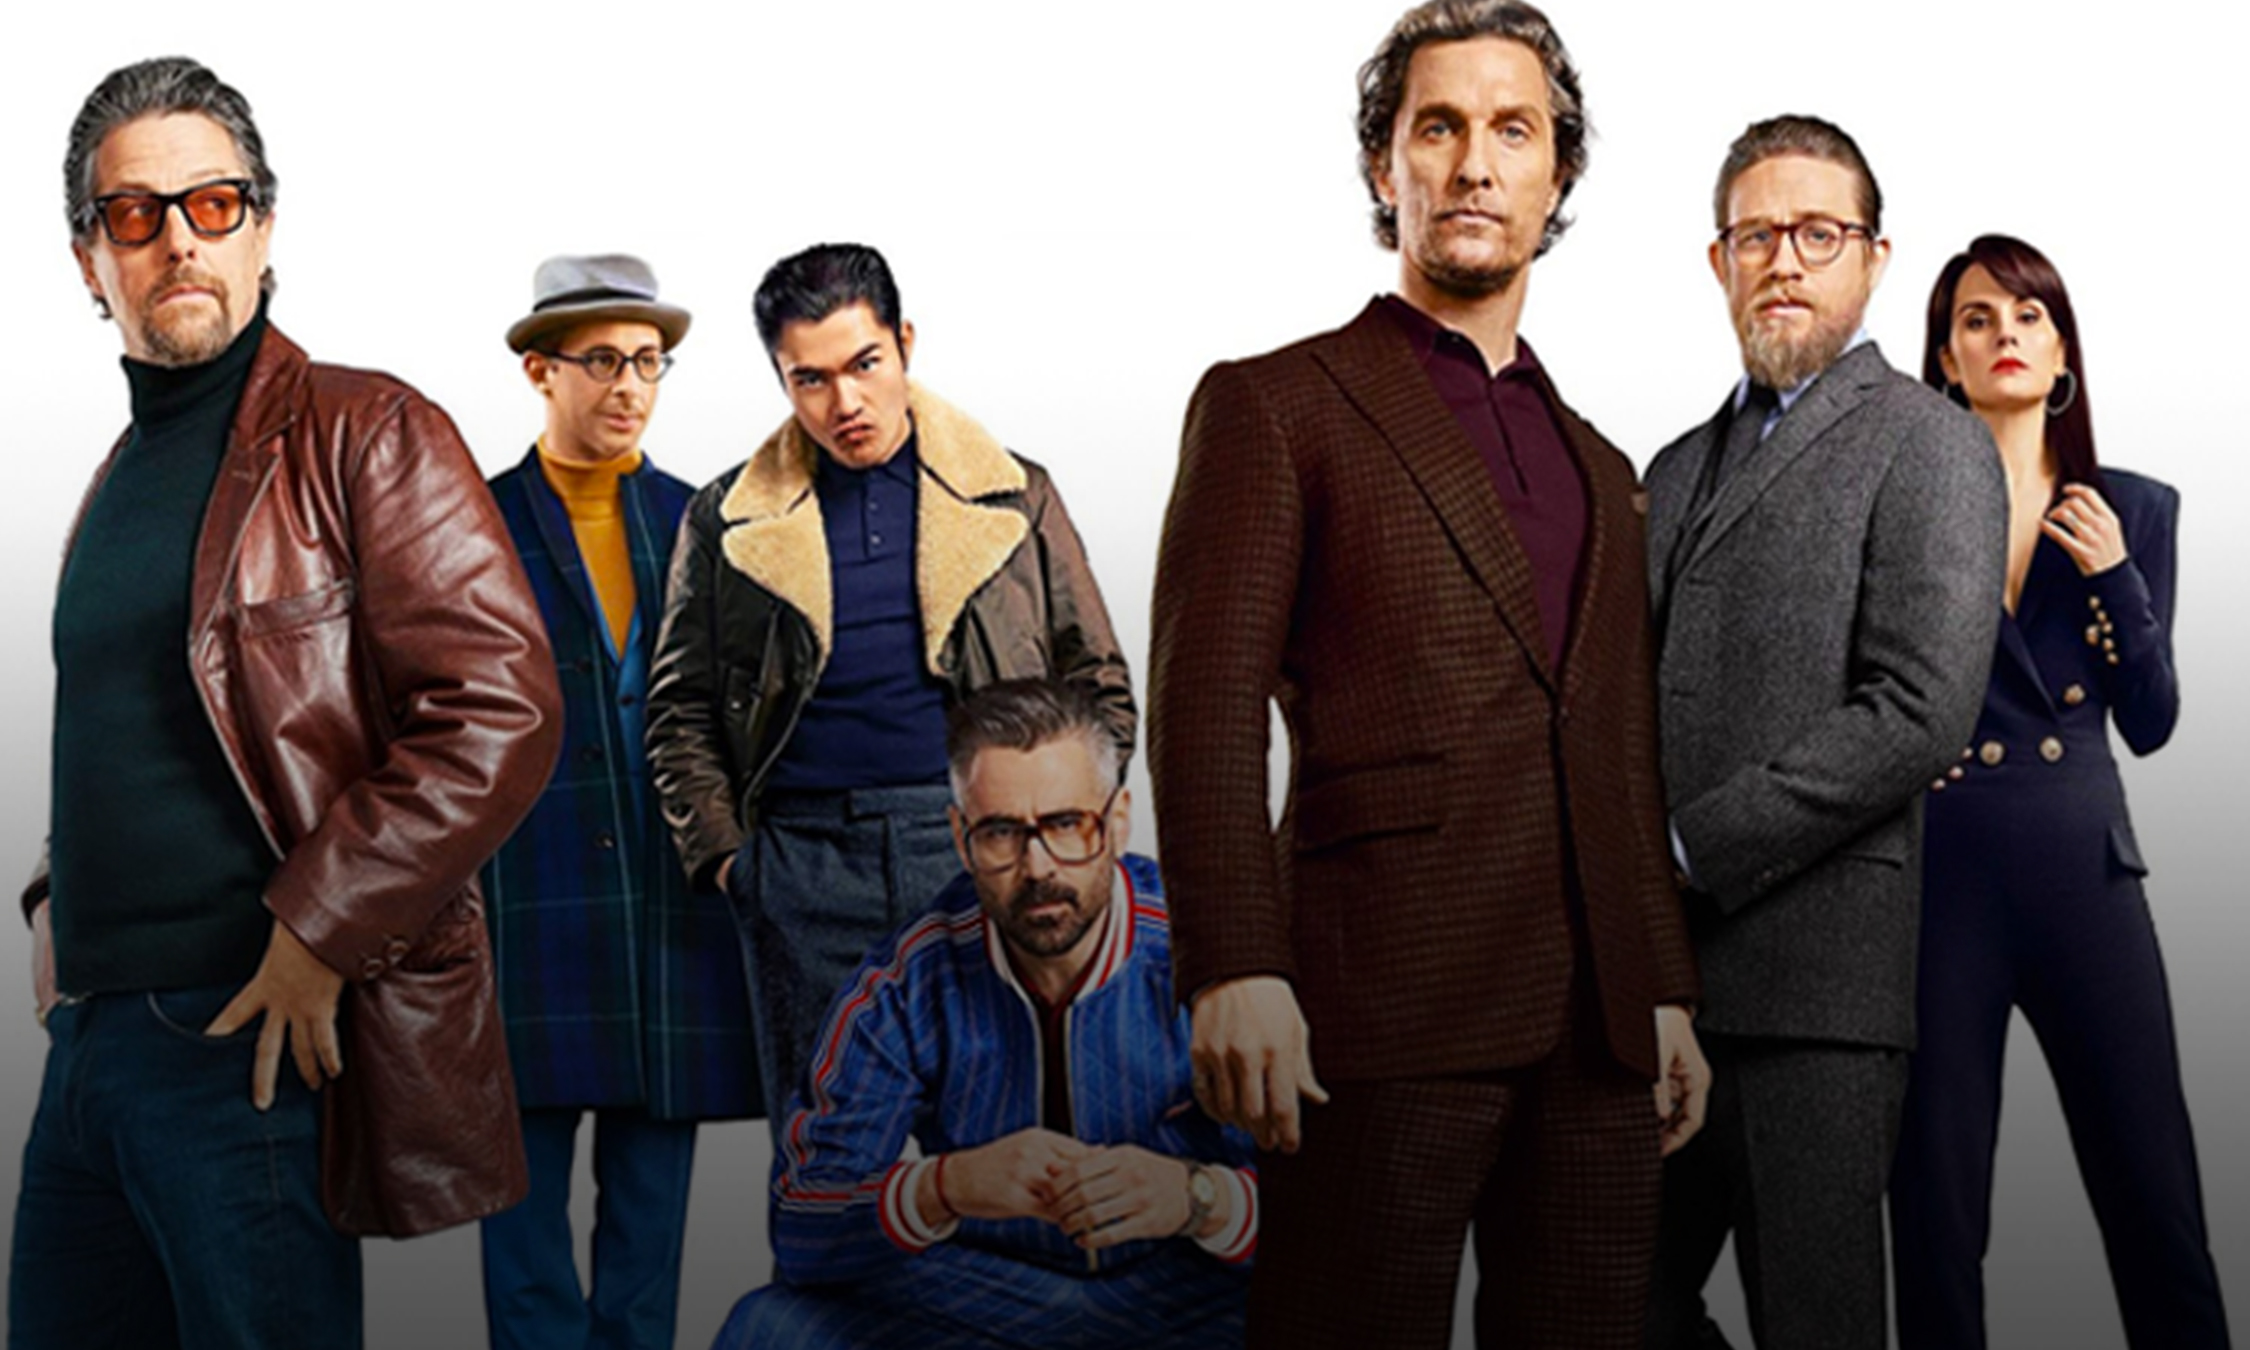
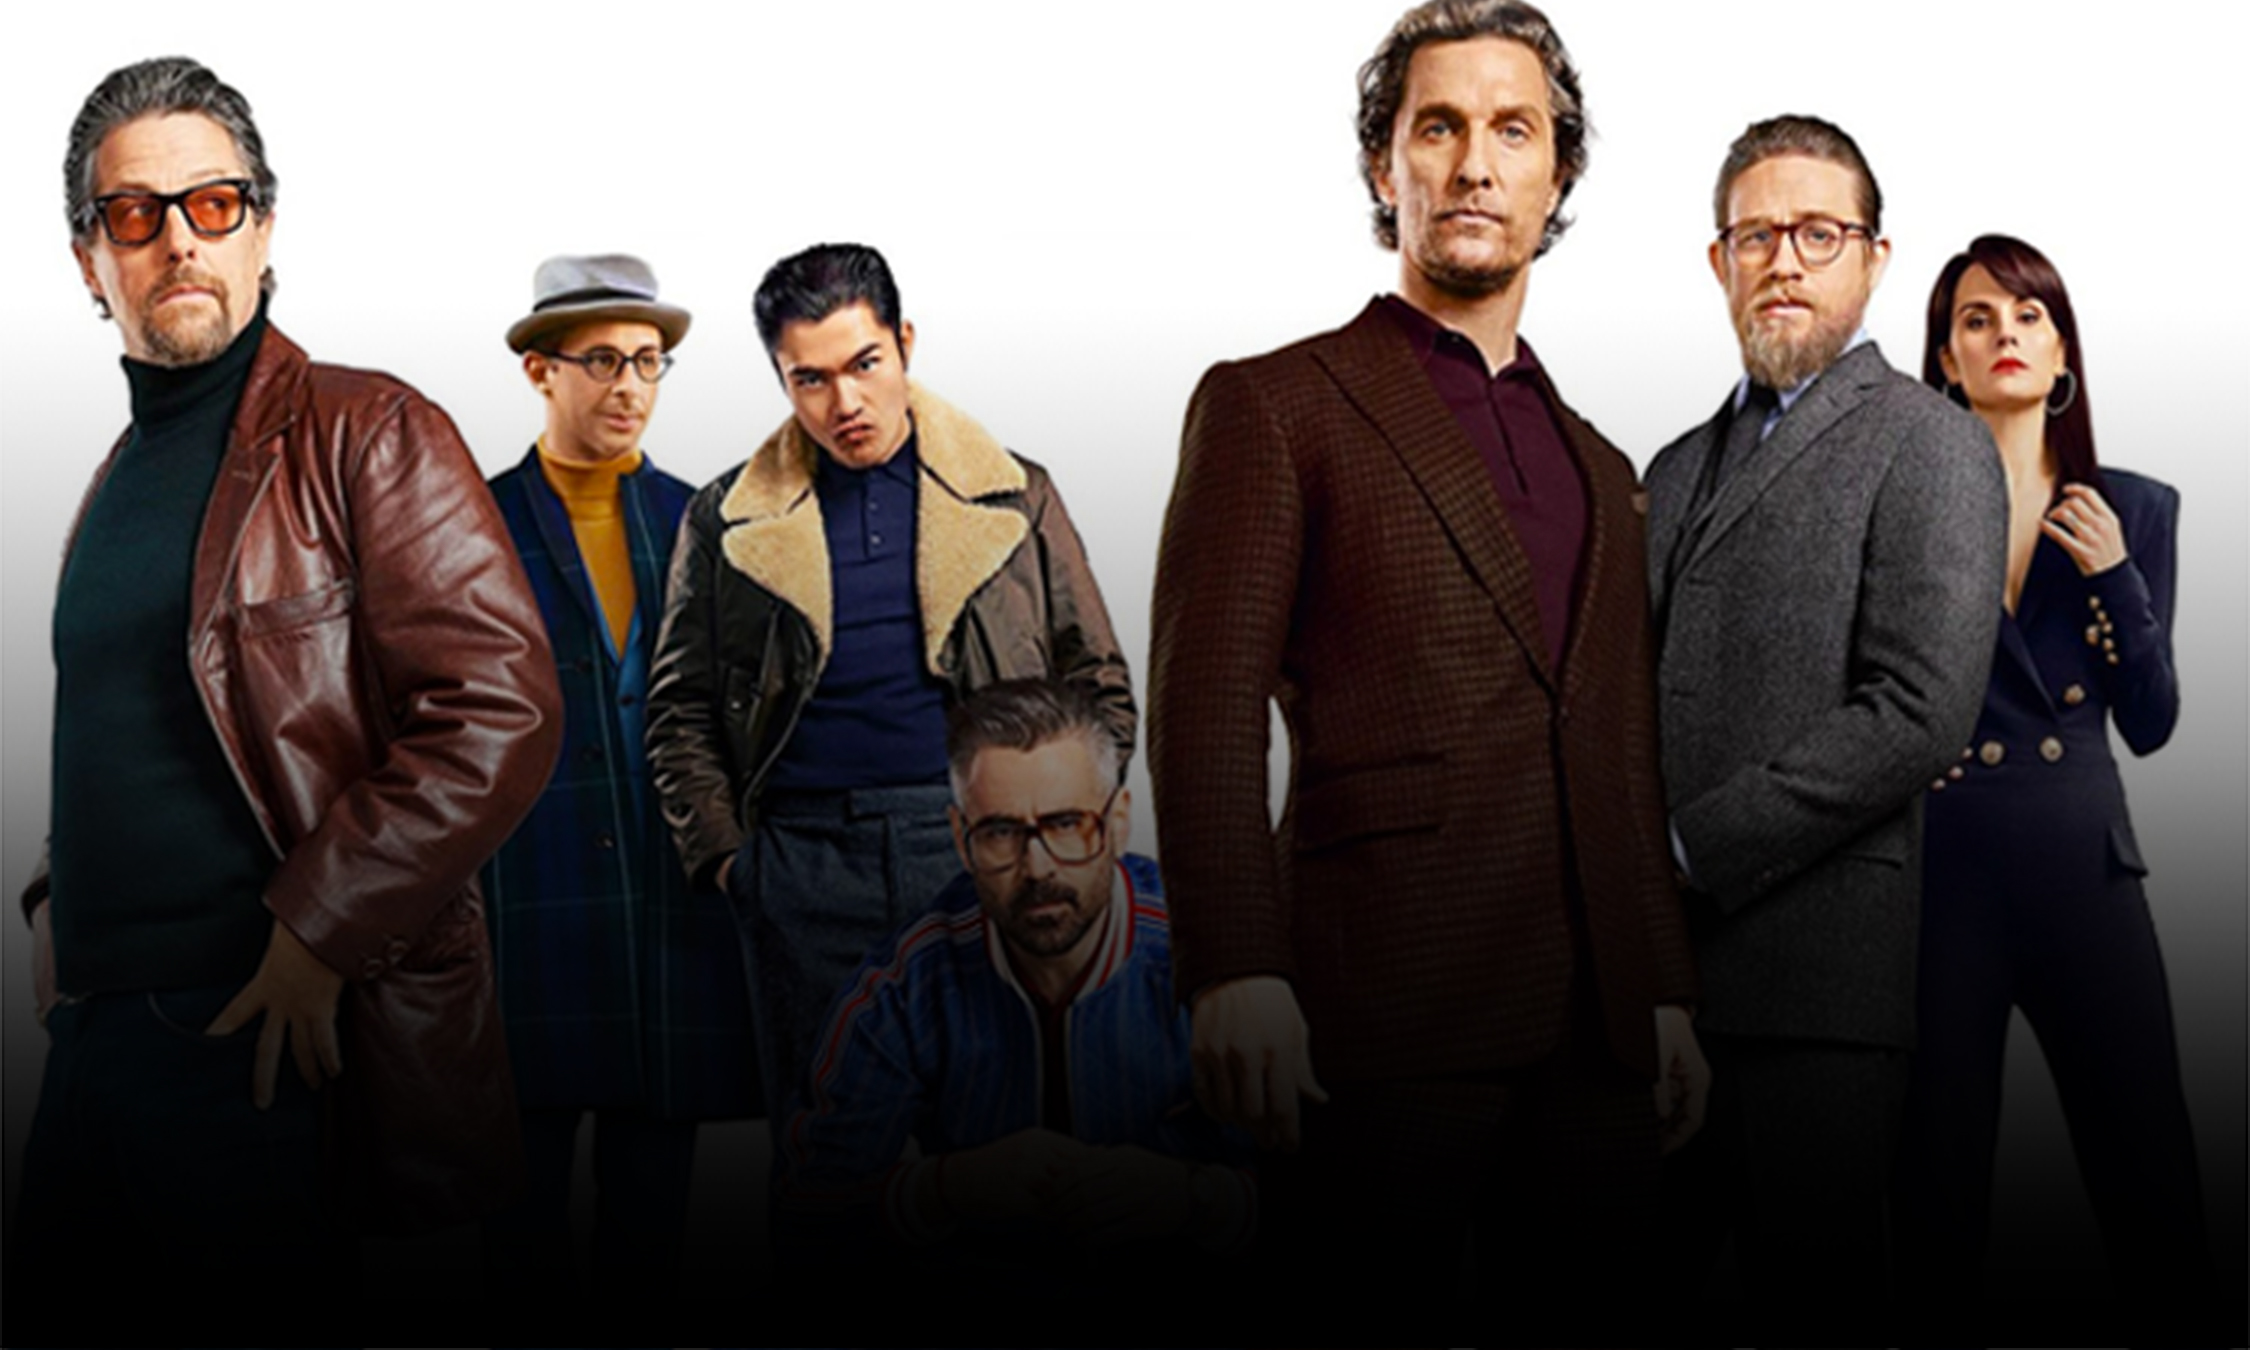
Added new styles

diff --git a/src/components/Menu.js b/src/components/Menu.js
@@ -7,6 +7,8 @@ const Menu = ({}) => {
 
   return (
     <View style={[styles.wrapper, focus ? styles.wrapperFocused : null]}>
+      <View style={styles.circle} />
+      <MenuItem setMenuFocus={setFocus} />
       <MenuItem setMenuFocus={setFocus} />
       <MenuItem setMenuFocus={setFocus} />
       <MenuItem setMenuFocus={setFocus} />
@@ -18,23 +20,27 @@ const Menu = ({}) => {
 
 const styles = StyleSheet.create({
   wrapper: {
-    backgroundColor: '#ccc',
-    width: 50,
+    backgroundColor: 'rgba(0, 0, 0, 0.75)',
+    width: 100,
     height: '100%',
     position: 'absolute',
     top: 0,
-    zIndex: -1,
-    borderRightColor: '#999',
-    borderRightWidth: 5,
-    opacity: 0.1,
-
+    zIndex: 1,
     left: -200,
     transform: [{translateX: 200}],
   },
   wrapperFocused: {
-    opacity: 1,
-    zIndex: 1,
-    width: 250,
+    width: 200,
+  },
+  circle: {
+    backgroundColor: '#808080',
+    width: 50,
+    height: 50,
+    top: 30,
+    left: '50%',
+    transform: [{translateX: -25}],
+    borderRadius: 30,
+    marginBottom: 110,
   },
 });
 

diff --git a/src/components/MenuItem.js b/src/components/MenuItem.js
@@ -26,15 +26,16 @@ const MenuItem = ({setMenuFocus}) => {
 
 const styles = StyleSheet.create({
   item: {
-    backgroundColor: '#333',
-    width: '100%',
-    height: 100,
-    top: 100,
+    backgroundColor: '#808080',
+    alignSelf: 'stretch',
+    height: 30,
     left: 0,
-    marginVertical: 10,
+    marginBottom: 25,
+    marginHorizontal: 25,
+    borderRadius: 5,
   },
   itemFocused: {
-    backgroundColor: 'rgb(232, 65, 175)',
+    backgroundColor: '#714add',
   },
 });
 

diff --git a/src/components/GalleryItem.js b/src/components/GalleryItem.js
@@ -47,12 +47,12 @@ const GalleryItem = ({title, image, hasTVPreferredFocus, blockFocusRight}) => {
 const styles = StyleSheet.create({
   wrapper: {
     borderColor: 'transparent',
-    borderWidth: 5,
-    borderRadius: 15,
+    borderWidth: 4,
+    borderRadius: 10,
     marginHorizontal: 10,
   },
   wrapperFocused: {
-    borderColor: 'rgb(232, 65, 175)',
+    borderColor: '#714add',
   },
   image: {
     width: 250,

diff --git a/App.js b/App.js
@@ -53,7 +53,7 @@ const styles = StyleSheet.create({
     right: 0,
   },
   body: {
-    backgroundColor: Colors.white,
+    backgroundColor: Colors.black,
   },
   sectionContainer: {
     marginTop: 32,

diff --git a/src/utils/DefaultItems.js b/src/utils/DefaultItems.js
@@ -14,7 +14,7 @@ export const DEFAULT_ITEMS = [
     image: ImgGentleman,
   },
   {
-    name: 'Kings Man',
+    name: "The King's Man",
     image: ImgKingsMan,
   },
   {
